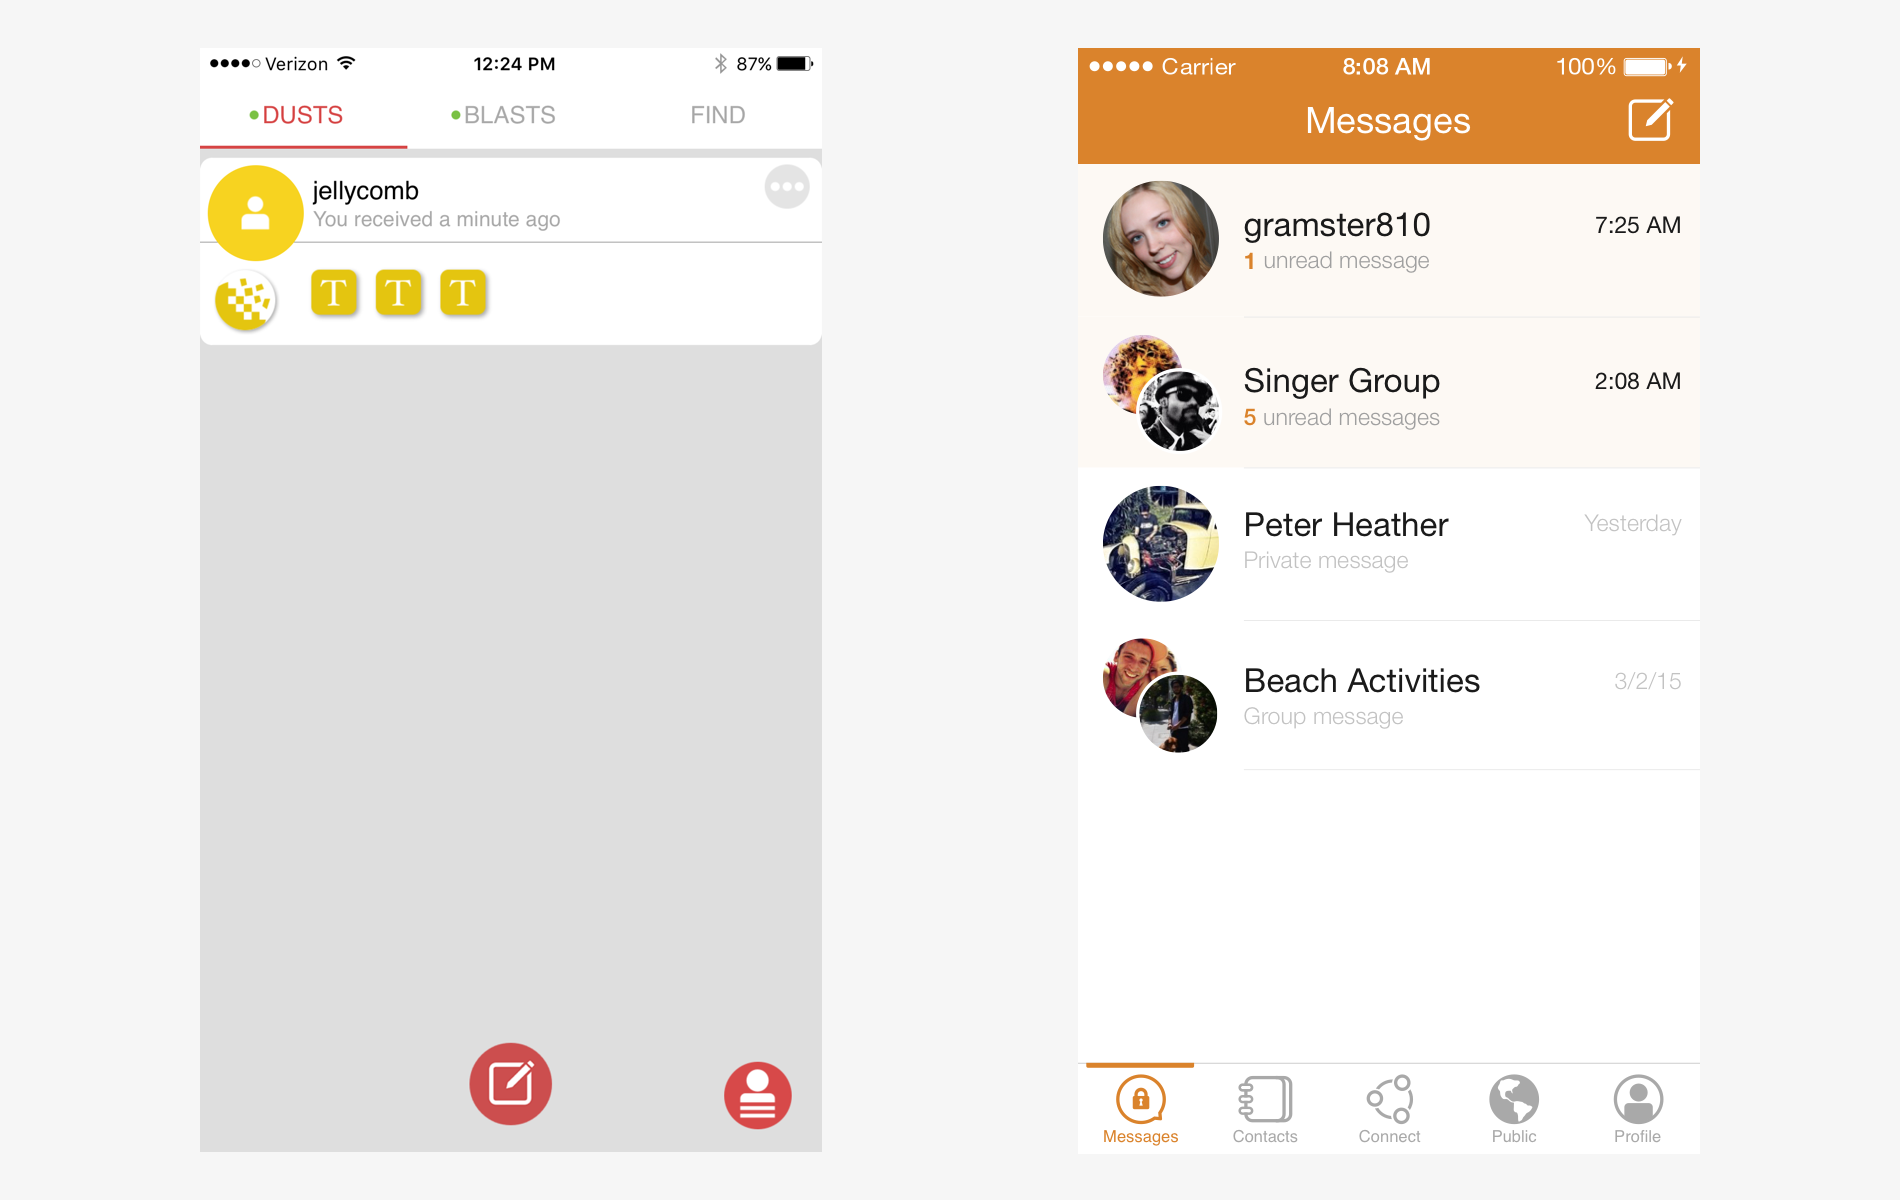
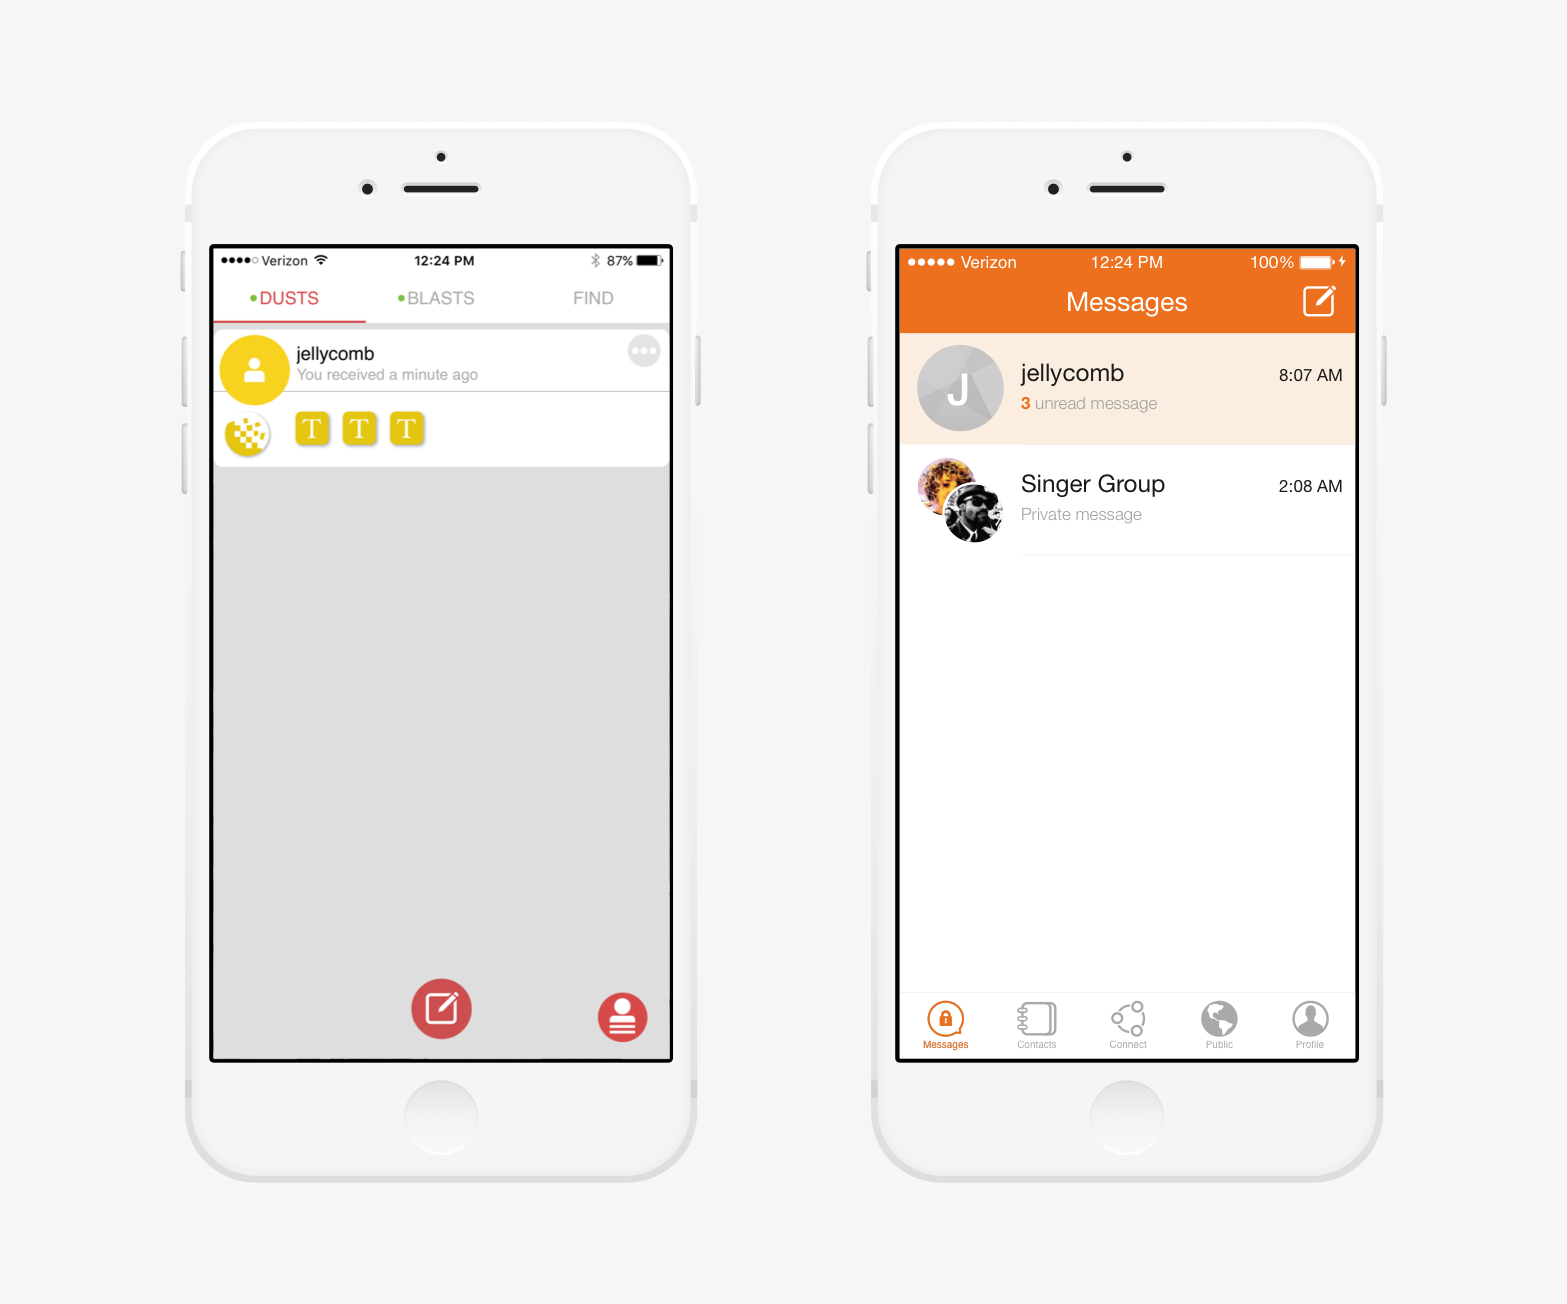
asdf

diff --git a/dust.html b/dust.html
@@ -79,14 +79,14 @@
 			<!--<img class="dustcover" src="dustcoverphoto.jpg">-->
 			<div class="descriptionalt">
 				<h1>Dust</h1>
-				<p>Dust is a private mobile messenging application. Send public post to all your followers, or send secure messages that can be deleted permanently on the other persons device.
+				<p>Dust is a private mobile messenging application. Send public post to followers, or send secure messages that can be deleted permanently on the other persons device.
 				</p>
 			</div>
 		</div>
 
 		<div class="description">
 				<h1>Dust</h1>
-				<p>Dust is a private mobile messenging application. Send public post to all your followers, or send secure messages that can be deleted permanently on the other persons device.
+				<p>Dust is a private mobile messenging application. Send public post to followers, or send secure messages that can be deleted permanently on the other persons device.
 				</p>
 		</div>
 
@@ -97,14 +97,14 @@
 			<p>The task was to completely redesign the existing application. Instead of searching for design problems internally, feedback from current users gave insight to problems we wouldn't be able to find.</p>
 			<h2>Step One: Discovery</h2>
 			<h4>Survey</h4> 
-			<p>Surveys were sent out to see what they would like to see improved about the app. After reading and condensing all the responses, results showed that the UI was a glaring problem. It was confusing all around the app, from the navigation down to the color.</p>
+			<p>Surveys were sent out to current users to ask what they liked and disliked about the app. After reading the responses, results showed that the UI was a glaring problem. It was confusing all around the app, from the navigation down to the color.</p>
 			<h4>Initial User Testing</h4>
-			<p>Viewing users interact with the app provided better insight to the problems they faced when using the app, from onboarding to changing settings.</p>
+			<p>Viewing users interact with the app provided insight to additional problems they faced when using the app, from onboarding to changing settings.</p>
 			<div class="dustimgs"><img class="img1" src="image1.png"></div>
 			<p class="imgdescription">Pain points discovered from user test and surveying.</p>
-			<p>Major pain points included a confusing navigation, unclear terminology, ambiguous icons, and lack of hierarchy. Because of all this, users had a hard time finding and understanding the important features. This ultimately led to users being frustrated and leaving the app.</p>
+			<p>Major pain points included a confusing navigation, unclear terminology, ambiguous icons, and lack of hierarchy. Because of all this, users had a hard time navigating the app in general. Which ultimately led to users being frustrated and leaving the app.</p>
 			<h4>Prioritizing</h4>
-			<p>When creating a list of major pain points, many small problems were also discovered from user testing. Prioritizing pain points helped to focus on the bigger issues when designing, while also remembering the smaller problems for later.</p>
+			<p>When creating a list of major pain points, many small problems were also discovered from user testing. Prioritizing pain points helped the design team focus on the bigger issues when designing, while keeping the smaller problems in mind.</p>
 			<div class="dustimgs"><img class="img2" src="image2.png"></div>
 			<p class="imgdescription">Prioritizing pain points from high to low.</p>
 			<h2>Step Two: Discovery</h2>
@@ -112,28 +112,65 @@
 			<p>The first major change was to create a centralized navigation. Users were confused with the existing app that had two bottom buttons and three top tabs. We tested various design iterations to find the one with the least pain points according to the users.</p>
 			<div class="dustimgs"><img class="img3" src="image3.png"></div>
 			<p class="imgdescription">User testing different navigation styles.</p>
-			<p>A bottom navigation deemed most effective. Creating a five tab navigation, with the important features, seemed to let users understand the app with the least frustration.</p>
+			<p>A bottom navigation deemed most effective. Creating a five tab navigation, with the important features, seemed to let users use the app with less confusion.</p>
 			<h4>Naming Convention</h4>
-			<p>Users were still struggling to understand what certain tabs did because of the branded terminology and the ambiguous icons that were used. This led to users having to tap around a couple times to fully understand. Creating more conventional text and icons was the next problem to solve.
+			<p>Users were still struggling to understand what certain tabs did because of the branded terminology and the ambiguous icons that were used. This led to users having to tap around the navigation a couple times to fully understand. Creating more conventional text and icons was the next problem to solve.
 			</p>
 			<div class="dustimgs"><img class="img4" src="image4.png"></div>
 			<p class="imgdescription">Users had a hard time understanding where tabs lead to with the current naming conventions</p>
 			<p>The main tabs that were confusing to users were the "dust" and "blast" screen. The terminology was marketed with the app name in mind, but made no sense to new users. We questioned users with various tab names to see what users would make of it. It was quickly discovered that the simpler terms were easier to undertsand.</p>
 			<!--<div class="dustimgs"><img class="img5" src="image5.png"></div>-->
 			<h4>Color</h4>
-			<p>Something had to be done with the existing color palette. Multiple colors placed all over the app had no sense of hierarchy. Using one color would be used to help place emphasis on the important items that would help guide the user. The apps main feature was security, and users needed to trust using the app. Blue was the perfect color. After testing the various colors, almost all users associated the app to Facebook instantly.</p>
+			<p>Multiple colors made the app look inconsistent, and 
+			also confused users at time for what was clickable. Using one color would help place emphasis on the important items that would help guide the user. The apps main feature was security, and users needed to trust using the app. Blue was the perfect color. After testing the various colors, almost all users associated the app to Facebook instantly.</p>
 			<div class="dustimgs"><img class="img6" src="image6.png"></div>
 			<p class="imgdescription">The color blue conveys trust.</p>
-			<p>Since we wanted to seperate our association with another app, we couldn't use blue. This led to trying out other colors. Orange was a color that conveyed security, which was something the app needs users to believe.</p>
+			<p>We didn't want new users to quickly associate our app with another, we decided to not use blue. This led to trying out other colors. Orange was another color that conveyed security, which was something the app needs users to believe.</p>
 			<div class="dustimgs"><img class="img7" src="image7.png"></div>
 			<p class="imgdescription">Because blue was too associated with Facebook, orange was another color that conveyed a sense of security.</p>
 			<!--<div class="dustimgs"><img class="img8" src="image8.png"></div>-->
 			<h2>Home Stretch</h2>
-			<p>After knocking down the larger problems, there was still work to be done. Smaller issues still played a large part in creating a smooth app. Efficiently using whitepace and font weight helped to create hierarchy. Creating informative empty screens helped to guide users around the app. Simplifying the onboarding process generated more accounts created.</p>
+			<p>After knocking out the larger problems, there was still a lot of work to be done. Smaller issues still played a large part in creating a great app. Efficiently using whitepace and font weight helped to create hierarchy. Creating informative empty screens helped to guide users around the app. Simplifying the onboarding process generated more accounts created.</p>
 			<!--<h2>Before and After</h2>
 			<div class="dustimgs"><img class="img9" src="image9.png"></div>
 			<p class="imgdescription">Message tab.</p>-->
-			<p id="last">After many iterations and testing all over the app, the redesign was complete. There were many changes to the app, from onboarding, to icons, to color, and even completely changing the name  and logo. Without user testing, we would've never spotted or corrected many of the existing problems. Utilizing user test was a fantastic way to help improve our app.</p>
+			<div class="slideshow-container">
+	  			<div class="mySlides fade">
+	    		   <div class="numbertext">1 / 3</div>
+				   <img src="image9.png" style="width:100%">
+				   <div class="text">Caption Text</div>
+	 			</div>
+
+				<div class="mySlides fade">
+				   <div class="numbertext">2 / 3</div>
+				   <img src="image10.png" style="width:100%">
+				   <div class="text">Caption Two</div>
+				</div>
+
+				<div class="mySlides fade">
+				   <div class="numbertext">3 / 3</div>
+				   <img src="image11.png" style="width:100%">
+				   <div class="text">Caption Three</div>
+				</div>
+
+			 	<a class="prev" onclick="plusSlides(-1)">&#10094;</a>
+			 	<a class="next" onclick="plusSlides(1)">&#10095;</a>
+			</div>
+			<br>
+
+			<div style="text-align:center">
+			  <span class="dot" onclick="currentSlide(1)"></span> 
+			  <span class="dot" onclick="currentSlide(2)"></span> 
+			  <span class="dot" onclick="currentSlide(3)"></span> 
+			</div>
+
+			<!--<img class="mySlides" src="image9.png">
+			<img class="mySlides" src="image10.png">
+			<img class="mySlides" src="image11.png">
+			<img class="mySlides" src="image12.png">-->
+			<a class="w3-btn-floating" onclick="plusDivs(-1)">&#10094;</a>
+			<a class="w3-btn-floating" onclick="plusDivs(+1)">&#10095;</a>
+			<p id="last">After many iterations and testing all over the app, the redesign was complete. There were many changes to the app, from onboarding, to icons, to colors, and even completely changing the name and logo. Without user testing, we never could've spotted or corrected many of the existing problems. Utilizing user test was a fantastic way to help improve our app.</p>
 		</div>
 		
 		<div class="nextscreen">

diff --git a/index.html b/index.html
@@ -58,7 +58,7 @@
 				<img src="profilephoto.png" id="profilephoto">
 				<div>
 					<h2>UI UX Designer</h2>
-					<p> I am a self-taught multidisciplinary designer based in Los Angeles. I have a passion for design, and spend most of my time designing in one form or another. If I am not working on designing an app, I'll be spending my time creating videos, taking pcitures, or coding websites. I enjoy tackling  challenges and push myself to be the best I can be.</p>
+					<p> I am a self-taught multidisciplinary designer based in Los Angeles. I have a passion for design, and spend most of my time designing in one form or another. If I am not working on designing apps, I'll be spending time shooting videos, taking photos, or coding websites. I embrace challenges and push myself to be the best I can be.</p>
 				</div>
 				<div class="resumebutton">
 					<a href="resume.pdf" class="button">View Resume</a>
@@ -88,7 +88,7 @@
 			<div class="description" id="ontraportleft">
 				<h1>Ontraport</h1>
 				<p class="date">January - June 2015</p>
-				<p class="text">Interned as a graphic designer working with multiple departments creating various designs. Designing eBook covers to posters. </p>
+				<p class="text">Interned as a graphic designer working with multiple departments. Working on various projects such as eBook covers and posters. </p>
 				<a href="ontraport.html" class="button">More Details</a>
 			</div>
 		</div>

diff --git a/ontraport.html b/ontraport.html
@@ -59,9 +59,9 @@
 
 		<div class="description">
 				<h1>Ontraport</h1>
-				<p>Ontraport is a online software tool that helps fully automate small businesses. 
+				<p>Ontraport is an online software tool that helps fully automate small businesses. 
 				<br><br>
-				As an intern, I helped the design team with work around the office, whether it be creating posters for the office, or designing eBooks for consumers.</p>
+				As an intern, I helped the design team with work around the office, from creating posters for the office, or designing eBooks for consumers.</p>
 		</div>
 
 		<hr/>
